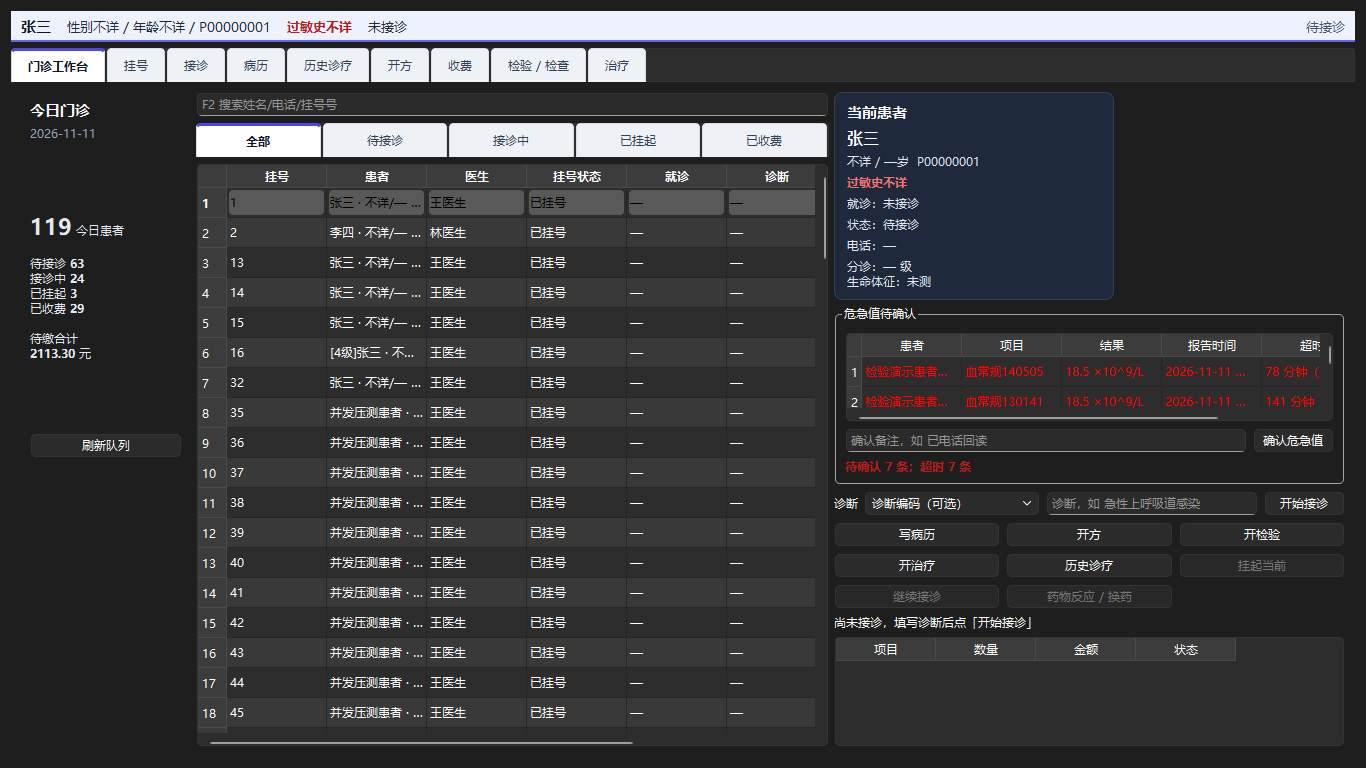
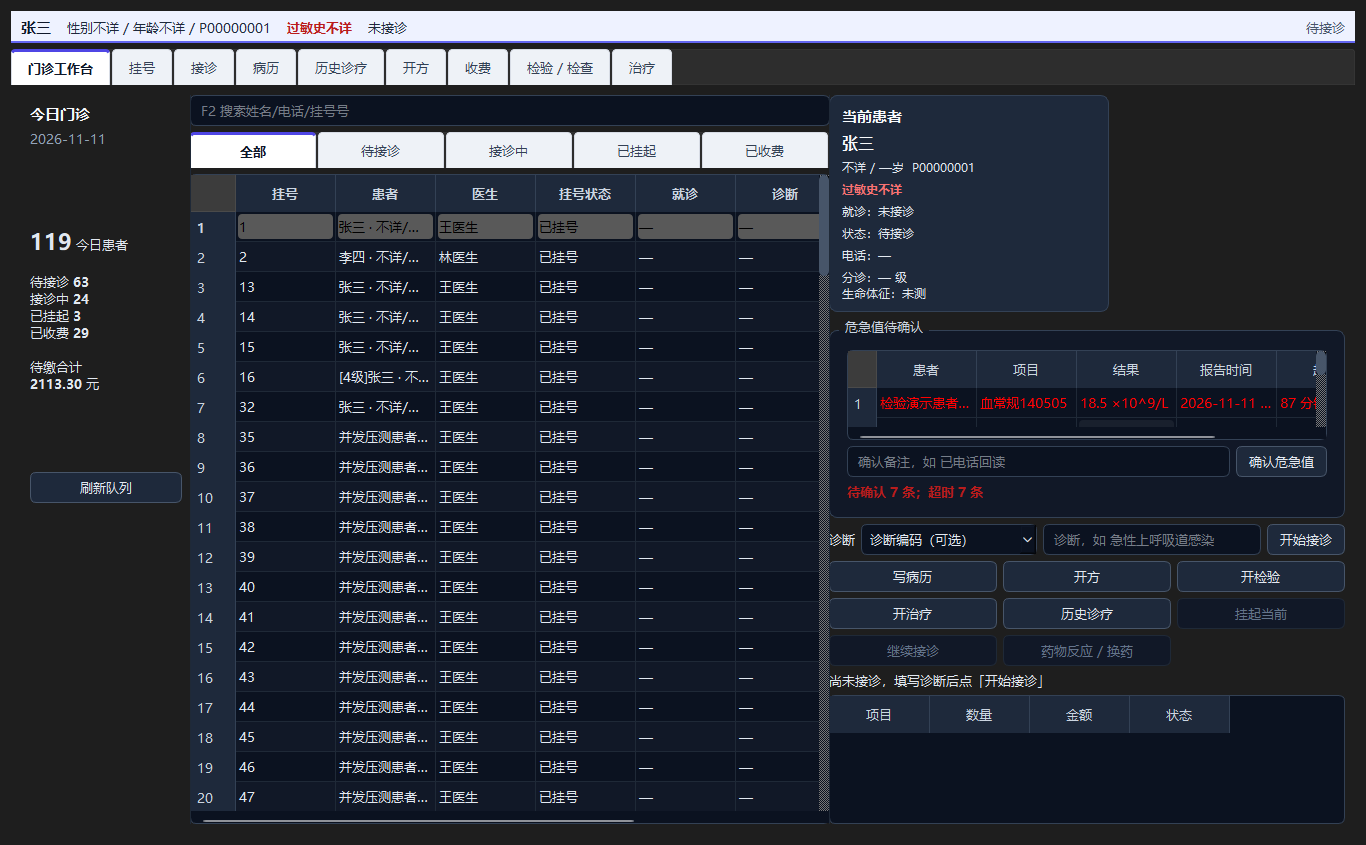
feat: 药房/检验/护士主从布局与统一主题 v0.79.0

diff --git a/his_client/ui/nurse.py b/his_client/ui/nurse.py
@@ -13,6 +13,7 @@ from PySide6.QtWidgets import (
     QLineEdit,
     QPushButton,
     QSpinBox,
+    QSplitter,
     QTableWidget,
     QTableWidgetItem,
     QTabWidget,
@@ -21,6 +22,7 @@ from PySide6.QtWidgets import (
 )
 
 from his_client.api import ApiClient, ApiError
+from his_client.ui.theme import apply_theme
 from his_client.labels import zh
 from his_client.ui.sidebar_tabs import SidebarTabs
 from his_client.ui.patient_banner import PatientBanner
@@ -29,6 +31,7 @@ from his_client.ui.patient_banner import PatientBanner
 class NurseWidget(QWidget):
     def __init__(self, api: ApiClient, parent=None):
         super().__init__(parent)
+        apply_theme(self)
         self.api = api
         self.banner = PatientBanner()
         self.tabs = SidebarTabs()
@@ -361,7 +364,15 @@ class NurseWidget(QWidget):
             ["患者", "项目", "类型", "用法", "状态", "座位", "滴速", "执行单", "高危"]
         )
         self.nursing_table.cellClicked.connect(self._select_nursing)
-        layout.addWidget(self.nursing_table, 1)
+        splitter = QSplitter(Qt.Horizontal)
+        left = QWidget()
+        left_layout = QVBoxLayout(left)
+        left_layout.setContentsMargins(0, 0, 0, 0)
+        left_layout.addWidget(self.nursing_table, 1)
+        splitter.addWidget(left)
+        right = QWidget()
+        right_layout = QVBoxLayout(right)
+        right_layout.setContentsMargins(0, 0, 0, 0)
 
         prep_box = QGroupBox("配药")
         prep = QFormLayout(prep_box)
@@ -380,7 +391,7 @@ class NurseWidget(QWidget):
         prep.addRow("批号", self.batch_no)
         prep.addRow("核对人", self.checked_by)
         prep.addRow("", prep_btn)
-        layout.addWidget(prep_box)
+        right_layout.addWidget(prep_box)
 
         exec_box = QGroupBox("执行 / 巡视")
         form = QFormLayout(exec_box)
@@ -417,11 +428,16 @@ class NurseWidget(QWidget):
         buttons.addWidget(skip)
         buttons.addWidget(print_label)
         form.addRow(buttons)
-        layout.addWidget(exec_box)
-
+        right_layout.addWidget(exec_box)
         self.nursing_msg = QLabel("")
         self.nursing_msg.setWordWrap(True)
-        layout.addWidget(self.nursing_msg)
+        right_layout.addWidget(self.nursing_msg)
+        right_layout.addStretch(1)
+        splitter.addWidget(right)
+        splitter.setStretchFactor(0, 3)
+        splitter.setStretchFactor(1, 2)
+        splitter.setSizes([700, 500])
+        layout.addWidget(splitter, 1)
         return page
 
     def _sync_nursing(self) -> None:

diff --git a/his_client/ui/lab.py b/his_client/ui/lab.py
@@ -1,5 +1,5 @@
 """检验科工作站：标本签收/拒收、结果录入、审核、危急值、报告打印。"""
-from PySide6.QtCore import QUrl
+from PySide6.QtCore import Qt, QUrl
 from PySide6.QtGui import QDesktopServices
 from PySide6.QtWidgets import (
     QCheckBox,
@@ -11,6 +11,7 @@ from PySide6.QtWidgets import (
     QLabel,
     QLineEdit,
     QPushButton,
+    QSplitter,
     QTableWidget,
     QTableWidgetItem,
     QTabWidget,
@@ -19,6 +20,7 @@ from PySide6.QtWidgets import (
 )
 
 from his_client.api import ApiClient, ApiError
+from his_client.ui.theme import apply_theme
 from his_client.labels import zh
 from his_client.ui.sidebar_tabs import SidebarTabs
 
@@ -26,6 +28,7 @@ from his_client.ui.sidebar_tabs import SidebarTabs
 class LabWidget(QWidget):
     def __init__(self, api: ApiClient, parent=None):
         super().__init__(parent)
+        apply_theme(self)
         self.api = api
         self.rows: list[dict] = []
         self.current: dict | None = None
@@ -69,7 +72,15 @@ class LabWidget(QWidget):
             ["申请", "标本号", "患者", "项目", "状态", "加急", "申请时间", "结果"]
         )
         self.table.cellClicked.connect(self._select_row)
-        layout.addWidget(self.table, 1)
+        splitter = QSplitter(Qt.Horizontal)
+        left = QWidget()
+        left_layout = QVBoxLayout(left)
+        left_layout.setContentsMargins(0, 0, 0, 0)
+        left_layout.addWidget(self.table, 1)
+        splitter.addWidget(left)
+        right = QWidget()
+        right_layout = QVBoxLayout(right)
+        right_layout.setContentsMargins(0, 0, 0, 0)
 
         actions = QHBoxLayout()
         for text, handler in [
@@ -82,7 +93,7 @@ class LabWidget(QWidget):
             button = QPushButton(text)
             button.clicked.connect(handler)
             actions.addWidget(button)
-        layout.addLayout(actions)
+        right_layout.addLayout(actions)
 
         result_box = QGroupBox("结果 / 审核")
         form = QFormLayout(result_box)
@@ -138,7 +149,12 @@ class LabWidget(QWidget):
         buttons.addWidget(review)
         buttons.addWidget(critical)
         form.addRow(buttons)
-        layout.addWidget(result_box, 0)
+        right_layout.addWidget(result_box, 1)
+        splitter.addWidget(right)
+        splitter.setStretchFactor(0, 3)
+        splitter.setStretchFactor(1, 2)
+        splitter.setSizes([700, 520])
+        layout.addWidget(splitter, 1)
         return page
 
     def _build_query_tab(self) -> QWidget:

diff --git a/his_client/ui/theme.py b/his_client/ui/theme.py
@@ -1,0 +1,62 @@
+"""统一现代化工作站样式。"""
+MODERN_QSS = """
+QWidget { color: #e2e8f0; font-family: "Microsoft YaHei"; font-size: 13px; }
+QGroupBox {
+    border: 1px solid #334155;
+    border-radius: 8px;
+    margin-top: 12px;
+    padding: 10px 8px 8px 8px;
+    background: #111827;
+}
+QGroupBox::title {
+    subcontrol-origin: margin;
+    left: 10px;
+    padding: 0 4px;
+    color: #cbd5e1;
+}
+QLineEdit, QComboBox, QSpinBox, QDoubleSpinBox, QDateEdit {
+    background: #0b1220;
+    border: 1px solid #334155;
+    border-radius: 6px;
+    padding: 5px 8px;
+    color: #e2e8f0;
+    selection-background-color: #4f46e5;
+}
+QLineEdit:focus, QComboBox:focus, QSpinBox:focus, QDoubleSpinBox:focus {
+    border: 1px solid #6366f1;
+}
+QPushButton {
+    background: #1e293b;
+    border: 1px solid #475569;
+    border-radius: 6px;
+    padding: 6px 12px;
+    color: #e2e8f0;
+}
+QPushButton:hover { background: #334155; border-color: #6366f1; }
+QPushButton:pressed { background: #4f46e5; }
+QPushButton:disabled { color: #64748b; background: #111827; border-color: #1f2937; }
+QTableWidget {
+    background: #0b1220;
+    alternate-background-color: #111827;
+    gridline-color: #1f2937;
+    selection-background-color: #4f46e5;
+    selection-color: #ffffff;
+    border: 1px solid #334155;
+    border-radius: 6px;
+}
+QHeaderView::section {
+    background: #1e293b;
+    color: #cbd5e1;
+    padding: 6px;
+    border: none;
+    border-right: 1px solid #334155;
+}
+QScrollBar:vertical { background: #0b1220; width: 10px; }
+QScrollBar::handle:vertical { background: #475569; border-radius: 5px; min-height: 24px; }
+QSplitter::handle { background: #1f2937; width: 3px; }
+QStatusBar { color: #94a3b8; }
+"""
+
+
+def apply_theme(widget) -> None:
+    widget.setStyleSheet(MODERN_QSS)

diff --git a/his_client/ui/cashier.py b/his_client/ui/cashier.py
@@ -24,6 +24,7 @@ from PySide6.QtWidgets import (
 )
 
 from his_client.api import ApiClient, ApiError
+from his_client.ui.theme import apply_theme
 from his_client.config import load_config
 from his_client.labels import zh
 from his_client.ui.sidebar_tabs import SidebarTabs
@@ -35,6 +36,7 @@ from his_client.ui.mixed_payment_dialog import MixedPaymentDialog
 class CashierWidget(QWidget):
     def __init__(self, api: ApiClient, role: str = "cashier", parent=None):
         super().__init__(parent)
+        apply_theme(self)
         self.api = api
         self.role = role
         self.insurance_enabled = load_config().insurance_enabled

diff --git a/his_client/ui/doctor.py b/his_client/ui/doctor.py
@@ -27,6 +27,7 @@ from PySide6.QtWidgets import (
 )
 
 from his_client.api import ApiClient, ApiError
+from his_client.ui.theme import apply_theme
 from his_client.config import load_config
 from his_client.labels import zh
 from his_client.ui.sidebar_tabs import SidebarTabs
@@ -47,6 +48,7 @@ _RECORD_FIELDS = [
 class DoctorWidget(QWidget):
     def __init__(self, api: ApiClient, parent=None):
         super().__init__(parent)
+        apply_theme(self)
         self.api = api
         self.insurance_enabled = load_config().insurance_enabled
         self.banner = PatientBanner()

diff --git a/his_client/ui/patient360.py b/his_client/ui/patient360.py
@@ -12,6 +12,7 @@ from PySide6.QtWidgets import (
 )
 
 from his_client.api import ApiClient, ApiError
+from his_client.ui.theme import apply_theme
 from his_client.labels import zh
 from his_client.ui.sidebar_tabs import SidebarTabs
 
@@ -19,6 +20,7 @@ from his_client.ui.sidebar_tabs import SidebarTabs
 class Patient360Widget(QWidget):
     def __init__(self, api: ApiClient, parent=None):
         super().__init__(parent)
+        apply_theme(self)
         self.api = api
         self.patients: list[dict] = []
         self.profile: dict | None = None

diff --git a/his_client/ui/archive.py b/his_client/ui/archive.py
@@ -19,6 +19,7 @@ from PySide6.QtWidgets import (
 )
 
 from his_client.api import ApiClient, ApiError
+from his_client.ui.theme import apply_theme
 from his_client.ui.sidebar_tabs import SidebarTabs
 
 STATUS = {
@@ -34,6 +35,7 @@ TYPES = {"outpatient": "门诊", "inpatient": "住院", "emergency": "急诊"}
 class ArchiveWidget(QWidget):
     def __init__(self, api: ApiClient, parent=None):
         super().__init__(parent)
+        apply_theme(self)
         self.api = api
         self.rows: list[dict] = []
         self.current: dict | None = None

diff --git a/his_client/ui/director.py b/his_client/ui/director.py
@@ -12,6 +12,7 @@ from PySide6.QtWidgets import (
 )
 
 from his_client.api import ApiClient, ApiError
+from his_client.ui.theme import apply_theme
 from his_client.ui.sidebar_tabs import SidebarTabs
 
 ARCHIVE_STATUS = {
@@ -32,6 +33,7 @@ PURCHASE_STATUS = {
 class DirectorWidget(QWidget):
     def __init__(self, api: ApiClient, parent=None):
         super().__init__(parent)
+        apply_theme(self)
         self.api = api
         self.archive_rows: list[dict] = []
         self.purchase_rows: list[dict] = []

diff --git a/his_client/ui/tcm.py b/his_client/ui/tcm.py
@@ -17,6 +17,7 @@ from PySide6.QtWidgets import (
 )
 
 from his_client.api import ApiClient, ApiError
+from his_client.ui.theme import apply_theme
 from his_client.ui.sidebar_tabs import SidebarTabs
 
 SPECIAL = {
@@ -48,6 +49,7 @@ D_STATUS = {
 class TcmWidget(QWidget):
     def __init__(self, api: ApiClient, role: str = "doctor", parent=None):
         super().__init__(parent)
+        apply_theme(self)
         self.api = api
         self.role = role
         self.items: list[dict] = []

diff --git a/his_client/ui/treatment_room.py b/his_client/ui/treatment_room.py
@@ -20,12 +20,14 @@ from PySide6.QtWidgets import (
 )
 
 from his_client.api import ApiClient, ApiError
+from his_client.ui.theme import apply_theme
 from his_client.ui.sidebar_tabs import SidebarTabs
 
 
 class TreatmentRoomWidget(QWidget):
     def __init__(self, api: ApiClient, parent=None):
         super().__init__(parent)
+        apply_theme(self)
         self.api = api
         self.cases: list[dict] = []
         self.templates: list[dict] = []

diff --git a/app/version.py b/app/version.py
@@ -1,6 +1,6 @@
 """版本信息：服务端与客户端共用（客户端打包时读取）。"""
 APP_NAME = "HIS 门诊部系统"
-APP_VERSION = "0.78.0"
+APP_VERSION = "0.79.0"
 API_VERSION = "v1"
 # 低于该版本的客户端提示升级
-CLIENT_MIN_VERSION = "0.78.0"
+CLIENT_MIN_VERSION = "0.79.0"
